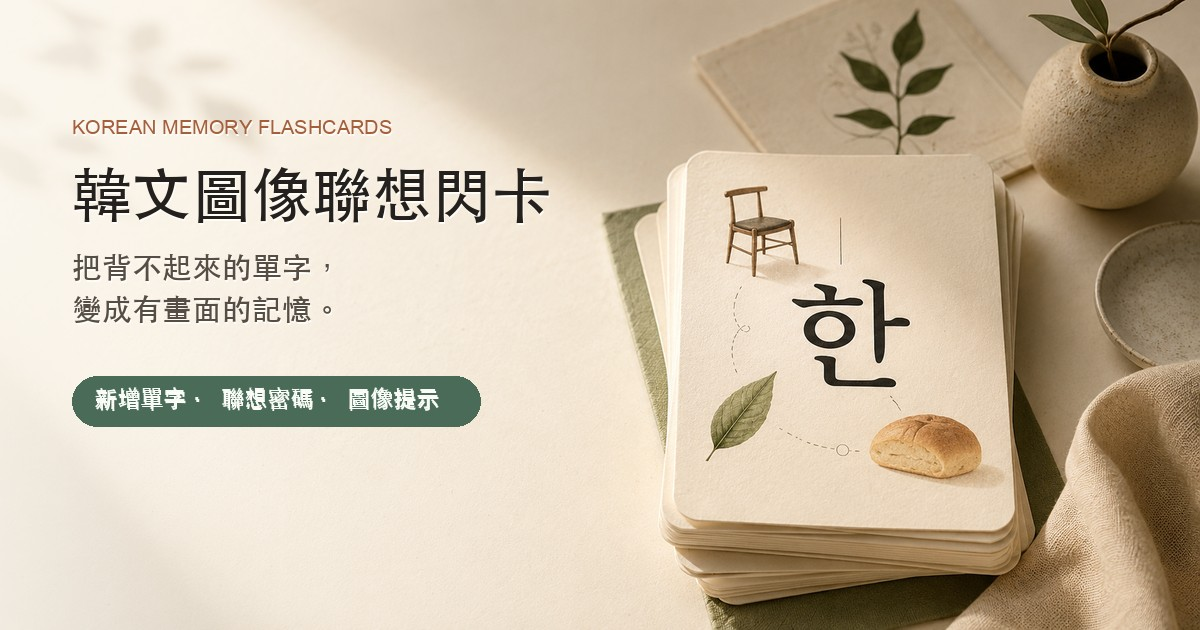
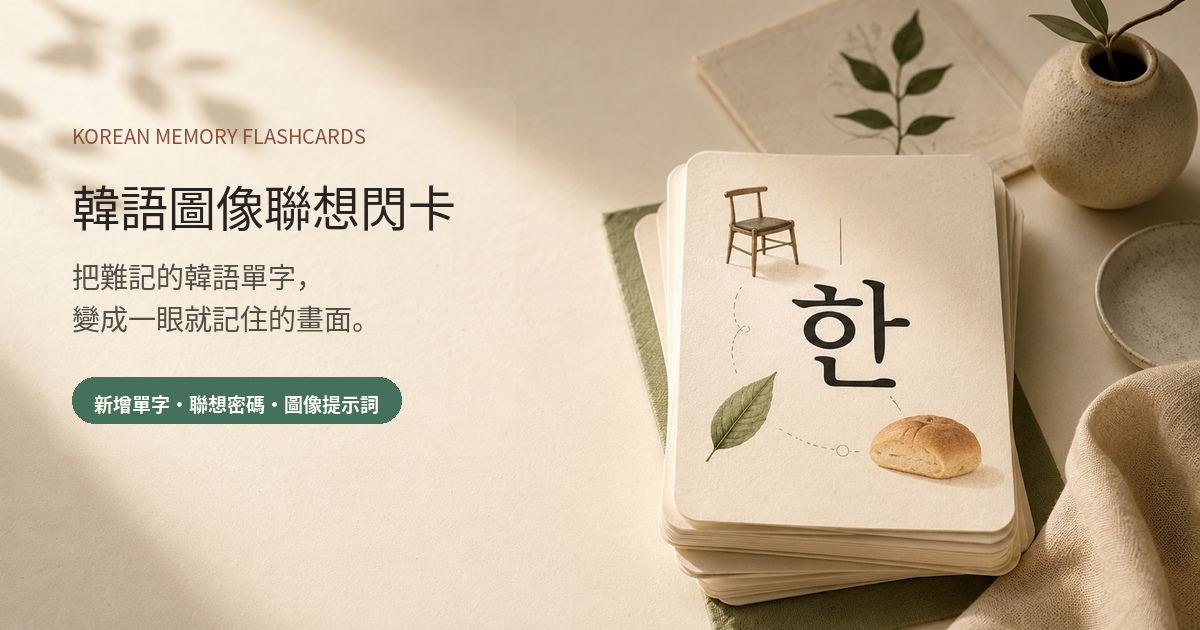
Add vocabulary card images

diff --git a/assets/app.js b/assets/app.js
@@ -9,7 +9,7 @@ const sampleCards = [
     tag: "諧音",
     cue: "형 聽起來像「型」，把 친한 想成很親的型男哥哥。",
     scene: "一位很親近的型男哥哥站在門口招手，外套上寫著 형。",
-    image: "",
+    image: "assets/images/cards/chinhan-hyeong.jpg",
     status: "new",
     reviewCount: 0,
     createdAt: "2026-06-07T00:00:00.000Z"
@@ -22,7 +22,7 @@ const sampleCards = [
     tag: "漢字音",
     cue: "漢字是「四寸」，把堂表親想成只隔四寸距離的親戚。",
     scene: "四位堂表兄弟姊妹站在一把四寸尺旁邊，尺上寫著 사촌。",
-    image: "",
+    image: "assets/images/cards/sachon.jpg",
     status: "new",
     reviewCount: 0,
     createdAt: "2026-06-07T00:00:00.000Z"
@@ -35,7 +35,7 @@ const sampleCards = [
     tag: "諧音",
     cue: "자리 聽起來像「這裡」，問服務生：這裡有座位嗎？",
     scene: "餐廳裡有人指著一張椅子說「這裡」，椅背上貼著 자리。",
-    image: "",
+    image: "assets/images/cards/jari.jpg",
     status: "stuck",
     reviewCount: 1,
     createdAt: "2026-06-07T00:00:00.000Z"
@@ -48,7 +48,7 @@ const sampleCards = [
     tag: "漢字音",
     cue: "漢字是「葉書」，想像把文字寫在樹葉上寄出去。",
     scene: "一片大葉子被當成明信片，葉面上寫著 엽서。",
-    image: "",
+    image: "assets/images/cards/yeopseo.jpg",
     status: "new",
     reviewCount: 0,
     createdAt: "2026-06-07T00:00:00.000Z"
@@ -61,12 +61,14 @@ const sampleCards = [
     tag: "外來語",
     cue: "빵 的聲音像「胖」，把麵包想成胖胖一顆。",
     scene: "一顆胖胖的麵包膨起來，表面浮出 빵。",
-    image: "",
+    image: "assets/images/cards/bbang.jpg",
     status: "mastered",
     reviewCount: 2,
     createdAt: "2026-06-07T00:00:00.000Z"
   }
 ];
+
+const sampleCardsById = Object.fromEntries(sampleCards.map((card) => [card.id, card]));
 
 const elements = {
   totalCount: document.getElementById("totalCount"),
@@ -131,10 +133,24 @@ function loadCards() {
     if (!Array.isArray(source)) {
       return sampleCards.map(cloneCard);
     }
-    return source.map(normalizeCard).filter(Boolean);
+    return hydrateSampleCards(source.map(normalizeCard).filter(Boolean));
   } catch {
     return sampleCards.map(cloneCard);
   }
+}
+
+function hydrateSampleCards(loadedCards) {
+  return loadedCards.map((card) => {
+    const sampleCard = sampleCardsById[card.id];
+    if (!sampleCard) {
+      return card;
+    }
+    return {
+      ...card,
+      image: card.image || sampleCard.image,
+      scene: card.scene || sampleCard.scene
+    };
+  });
 }
 
 function saveCards() {
@@ -189,6 +205,9 @@ function safeImageSource(value) {
   }
   if (source.startsWith("data:image/")) {
     return source;
+  }
+  if (/^\.?\/?assets\/images\//.test(source) && !source.includes("..")) {
+    return source.replace(/^\.\//, "").replace(/^\//, "");
   }
   try {
     const url = new URL(source);
@@ -278,6 +297,7 @@ function renderFlashcard(active) {
 
 function renderVisual(card) {
   elements.frontVisual.replaceChildren();
+  elements.frontVisual.classList.toggle("has-image", Boolean(card.image));
   if (card.image) {
     const image = document.createElement("img");
     image.src = card.image;
@@ -290,6 +310,7 @@ function renderVisual(card) {
 
 function renderTextVisual(text) {
   elements.frontVisual.replaceChildren();
+  elements.frontVisual.classList.remove("has-image");
   const fallback = document.createElement("span");
   fallback.id = "frontImageFallback";
   fallback.textContent = text;

diff --git a/assets/styles.css b/assets/styles.css
@@ -356,6 +356,19 @@ h2 {
   border-radius: 6px;
 }
 
+.visual-frame.has-image {
+  min-height: 250px;
+  padding: 0;
+  overflow: hidden;
+  background: var(--surface);
+}
+
+.visual-frame.has-image img {
+  height: 100%;
+  max-height: 340px;
+  object-fit: cover;
+}
+
 .meaning {
   font-size: clamp(2rem, 5vw, 3.5rem);
   font-weight: 800;

diff --git a/index.html b/index.html
@@ -24,7 +24,7 @@
     <title>韓文圖像聯想閃卡</title>
     <link rel="icon" href="favicon.svg" type="image/svg+xml">
     <link rel="preload" as="image" href="assets/images/hero-korean-memory-flashcards.jpg">
-    <link rel="stylesheet" href="assets/styles.css?v=20260607b">
+    <link rel="stylesheet" href="assets/styles.css?v=20260607c">
   </head>
   <body>
     <div class="app-shell">
@@ -200,6 +200,6 @@
     </div>
 
     <div class="toast" id="toast" role="status" aria-live="polite"></div>
-    <script src="assets/app.js?v=20260607b"></script>
+    <script src="assets/app.js?v=20260607c"></script>
   </body>
 </html>